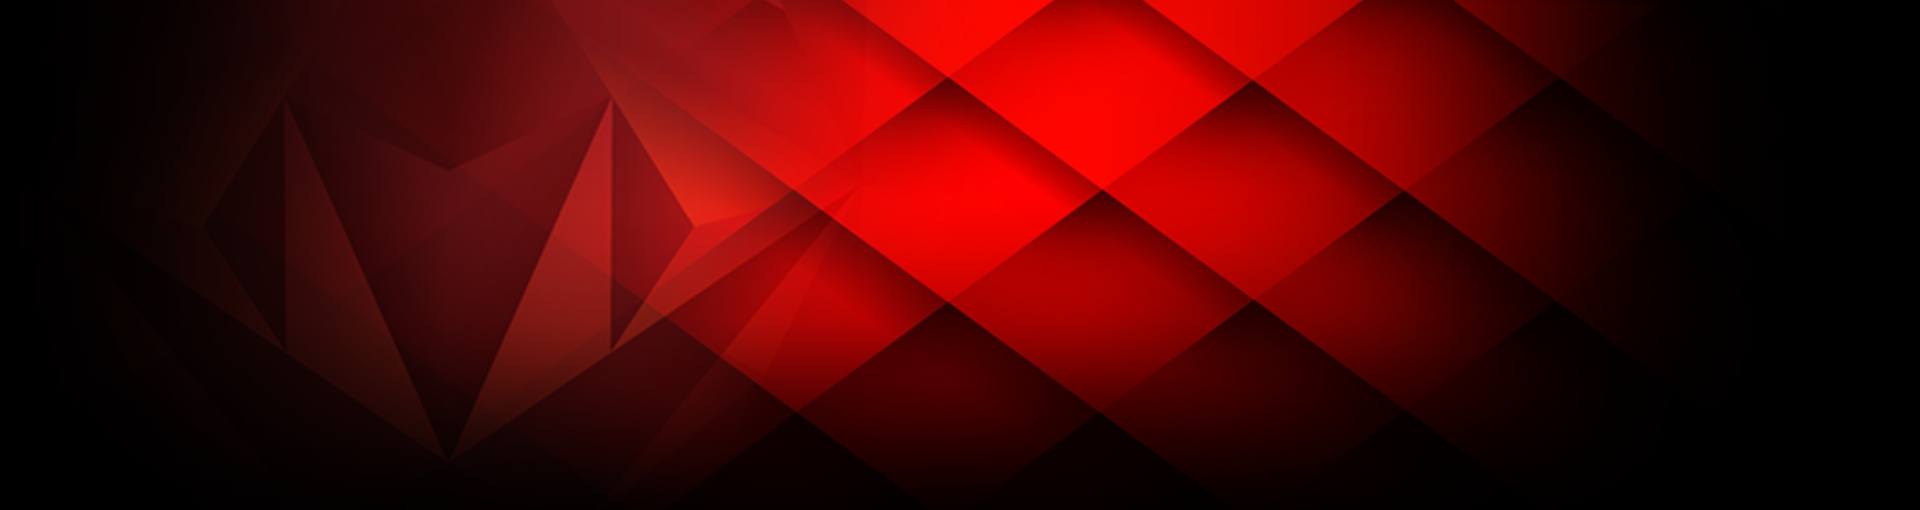
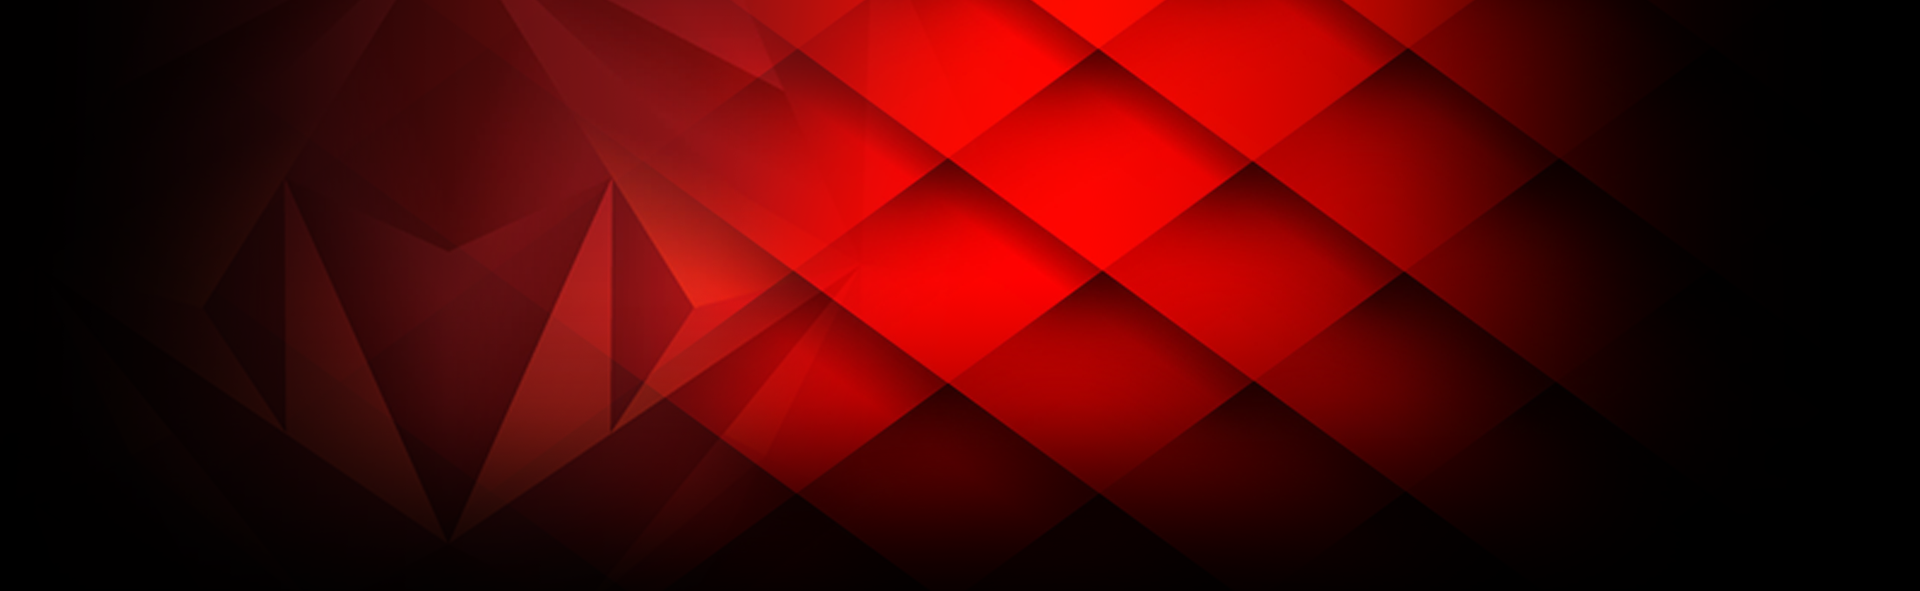
cc

diff --git a/fifa55sport.com/style/core_sub.css b/fifa55sport.com/style/core_sub.css
@@ -5331,7 +5331,12 @@ a>img.alignnone {
 		width: 20%;
 	}
 }
-
+@media screen and (max-width: 1920px) {
+/*@media ( min-width : 1920px) {*/
+	.outter-wrapper {
+		    background-size: 1920px 593px !important;
+	}
+}
 .widget_search .search-submit .fa {
 	vertical-align: 0;
 }
@@ -7962,7 +7967,7 @@ rotate
 }
 
 .wrapper {
-    max-width: 1160px;
+    /*max-width: 1160px;*/
     margin: 0 auto;
     background: #fff; 
     -webkit-box-sizing: border-box;

diff --git a/fifa55sport.com/style/core.css b/fifa55sport.com/style/core.css
@@ -1975,7 +1975,7 @@ fieldset[disabled] .btn-primary.active{background-color:#a80000;border-color:#a8
 }
 
 .wrapper {
-    max-width: 1160px;
+    /*max-width: 1160px;*/
     margin: 0 auto;
     background: #fff;
     -webkit-box-sizing: border-box;

diff --git a/fifa55sport.com/pages/index.php b/fifa55sport.com/pages/index.php
@@ -40,13 +40,13 @@
     }
   }
 </style>
-<div class="outter-wrapper body-wrapper promotion-theme" style=" background-color: #000000;   /*background: url(images/bg_index.png);*/
+<div class="outter-wrapper body-wrapper promotion-theme" style=" /*background-color: #000000;*/ background: url(images/bg_index.png);
     background-repeat: no-repeat;
-    background-size: 100%;">
+    background-size: 100%;    background-size: 1920px 490px;">
   <div class="wrapper section-promotion clearfix" style="    padding-bottom: 0px; margin-top: 0px;">
     <div class="row">
-      <div class="col-md-12">
-        <img src="images/promo_index.png" width="100%" style="margin-top: -10px;" >
+      <div class="">
+        <img src="images/promo_index.png" width="100%" style="   " >
       </div>
       
 
@@ -172,14 +172,14 @@
       <div class="col-xs-12">
         <div class="simple-column">
           <div class="heading heading-12">
-            <h1 class="wow zoomInUp" style="font-size: 34px;"><span class="left"></span>FIFA55 บริการเดิมพันออนไลน์อันดับ 1<span class="right"></span></h1>
+            <h1 class="wow zoomInUp" style="font-size: 34px;"><span class="left"></span>FIFA55 เว็บแทงบอลออนไลน์อันดับ 1<span class="right"></span></h1>
             <div class="wow fadeIn descript-about" data-wow-delay="1.2s" data-wow-duration="1s">
-              <p>FIFA55 เว็บออนไลน์อันดับหนึ่ง เว็บตรง มั่นคง ปลอดภัย 100%</p>
-              <p><span style="color:#000000"><?=$fifa55Main;?>.COM</span>&nbsp;เว็บแทงบอลออนไลน์ หวยออนไลน์ คาสิโนออนไลน์ และอื่นๆ</p>
-              <p>FIFA55&nbsp;เว็บแทงบอลออนไลน์ คาสิโนออนไลน์ <?=$fifa55Main;?> เป็นเว็บที่ไม่ผ่านเอเย่นต์ แก้ปัญหาเรื่องการโกงจากตัวแทนต่างๆ FIFA55&nbsp;ฉีกกฎของเว็บแทงบอลเดิมๆ ที่คุณเคยใช้งานอยู่ และจุดเด่น <?=$fifa55Main;?>&nbsp;คือ รวมทุกอย่างไว้ในไอดีเดียวเลย&nbsp;</p>
-              <p>FIFA55&nbsp;มีทีมงานคุณภาพ และมีออฟฟิศจริง&nbsp;อยู่ที่ สำนักงานใหญ่ อาคาร Princess Holiday Palace ปอยเปตประเทศกัมพูชา เพื่อตอบสนองความต้องการของนักเสี่ยงโชคทุกท่าน&nbsp;&nbsp;<?=$fifa55Main;?>&nbsp;มีบริการ Call Center 24 ชั่วโมง รองรับการสมัครหรือสอบถามข้อมูลต่างๆ</p>
-              <p>FIFA55&nbsp;มีช่องทางอื่นๆ ผ่านทางสื่อต่างอีกมากมาย ทั้งทางโทรศัพท์ Line, &nbsp;Line@, Facebook, Livechat, E-mail</p>
-              <p><?=$fifa55Main;?> ได้เพิ่มช่องทางการติดต่อให้ทันสมัยอยู่ตลอดเวลา เพื่อป้องกันการที่สมาชิกของ&nbsp;FIFA55 จะหาช่องทางการติดต่อกับเราไม่ได้</p>
+              <p>FIFA55 เว็บแทงบอลออนไลน์อันดับหนึ่ง รวดเร็ว มั่นคง ทันสมัยและปลอดภัย 100%</p>
+              <p>อีกทั้ง FIFA55 ยังเป็นเว็บที่ได้รับความนิยมมากที่สุด มีราคาหน้าบอลที่เป็นธรรม และเหมาะสมกับคนไทย</p>
+              <p>มีระบบการเล่นที่ถูกพัฒนาเพื่อคนไทย รองรับเมนูภาษาไทย เพื่อให้คนไทยเข้าใจง่าย</p>
+              <p>เว็บ FIFA55 เป็นเว็บแทงบอลที่ไม่ผ่านเอเย่นต์ จัดการกับปัญหาการโกงจากเว็บอื่นๆ แถมยังฉีกกฏของ เว็บแทงบอลเดิมๆ โดยที่จุดเด่นสุดของ FIFA55 คือรวมทุกอย่างไว้ในไอดีเดียว ทั้งบอล หวย มวย คาสิโน ฯลฯ</p>
+              <p>แถมยังมีการบริการตลอด 24 ชั่วโมงด้วยทีมงานมืออาชีพ รองรับการสมัครหรือสอบถามแก้ไขปัญหาได้ตลอดเวลา</p>
+              <p>อีกทั้ง FIFA55 ยังได้เพิ่มช่องทางการติดต่อให้ทันสมัย เหมาะกับทุกคน เพื่อให้สมาชิกของเราติดต่อเราตลอดเวลา</p>
             </div>
           </div>
         </div>
@@ -192,7 +192,7 @@
 <div class="outter-wrapper divider-pro"></div>
 <div class="outter-wrapper body-wrapper regist-theme">
   <div class="wrapper ad-pad clearfix" style="padding-bottom: 0em;background-color: #1f1f1f ;">
-    <div class="row box-highlight" align="center">
+    <div class="row box-highlight container " align="center">
       <div class="itemhov itemhov-type-line wow pulse">
         <div style="width:3.2em;"></div>
       </div>

diff --git a/fifa55sport.com/footer.inc.php b/fifa55sport.com/footer.inc.php
@@ -155,7 +155,7 @@
 <div class="me-contel"> สมัคร FIFA55 คลิกที่นี่ <a href="https://line.me/R/ti/p/%40fifa55hd" class="btns btn-add-line my-2">Add Line</a></div>
 
 <a id="banner-pop" style="display: none; cursor: pointer;"><img class="img-responsive" src="images/fifa55-popup.html"  onclick="closeFunction();" /></a>
-<link href="style/core_sub.css?v=2.3" rel="stylesheet" type="text/css" />
+<link href="style/core_sub.css?v=2.7" rel="stylesheet" type="text/css" />
 <link href="style/style-switcher.css" rel="stylesheet" />
 <!-- FontAwesome 4.3.0 -->
 <link href="plugins/font-awesome-4.3.0/css/font-awesome.min.css" rel="stylesheet" type="text/css" />
